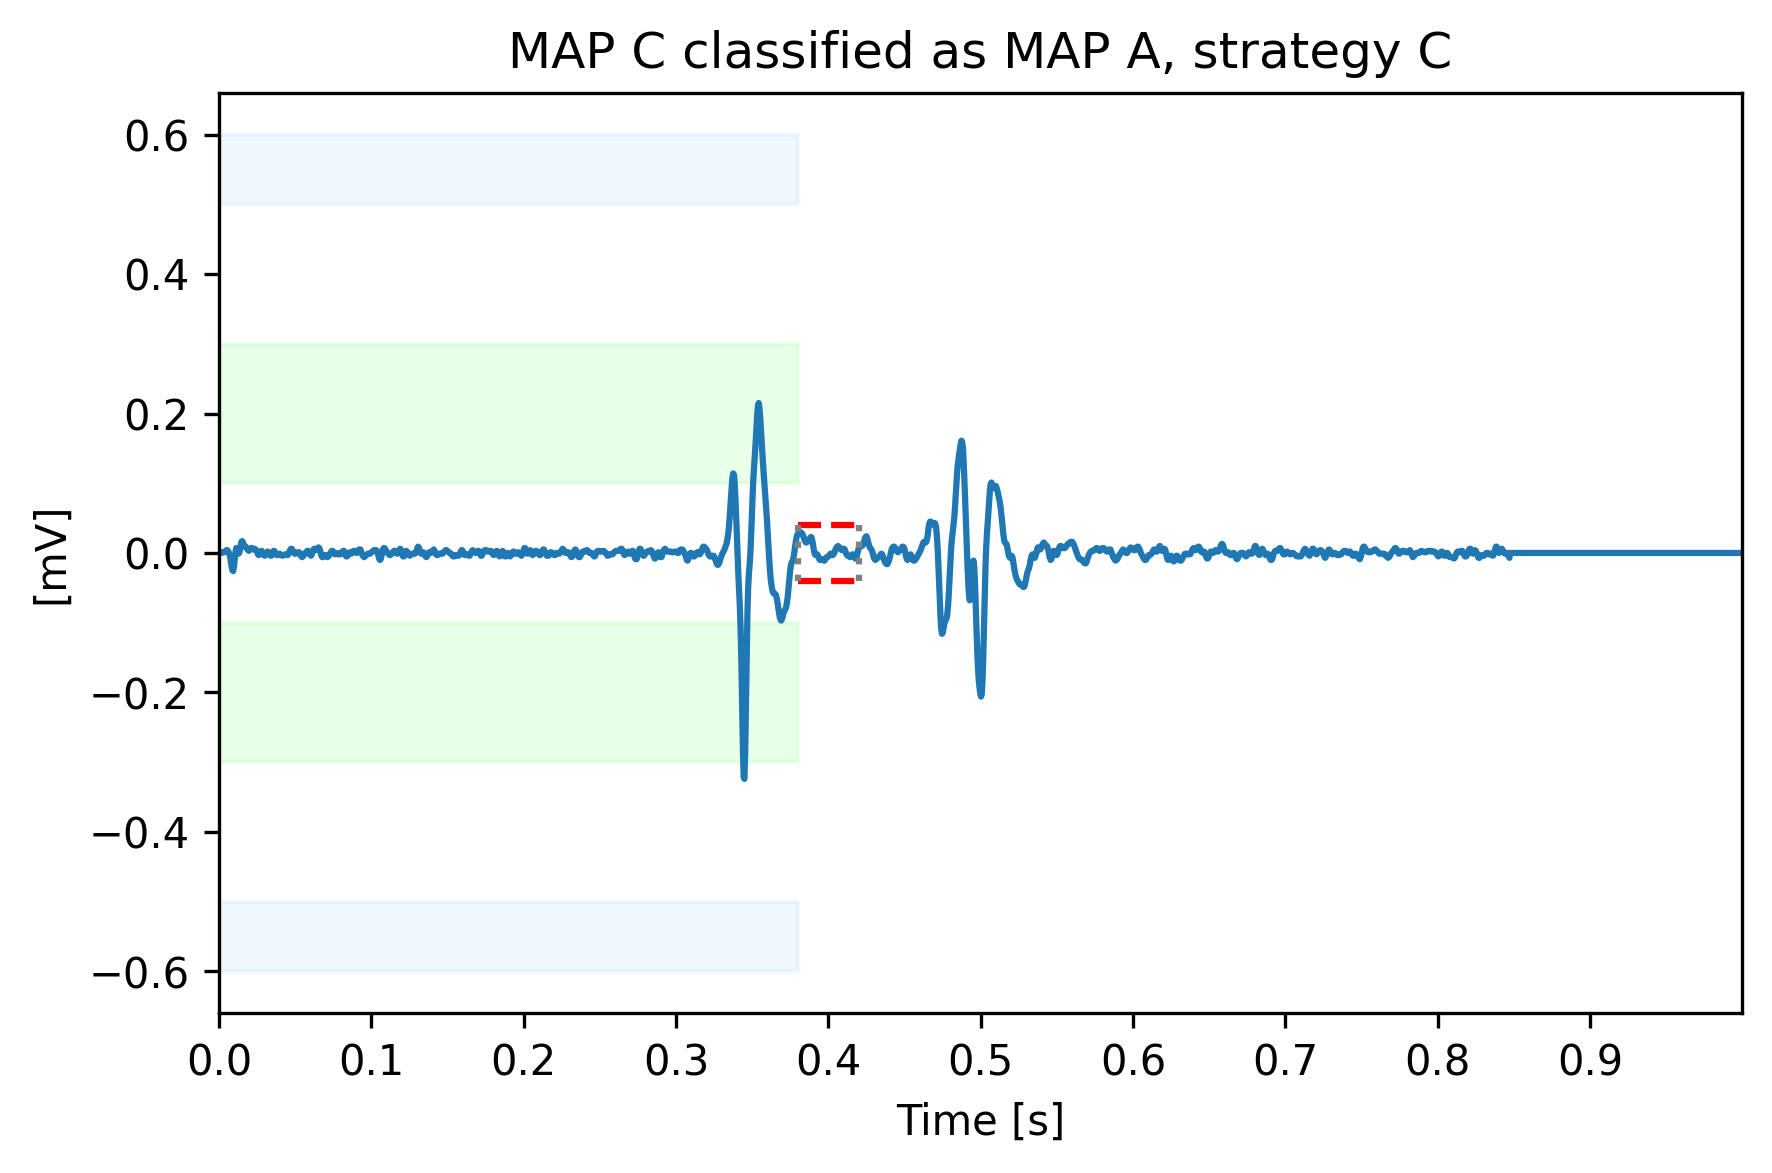
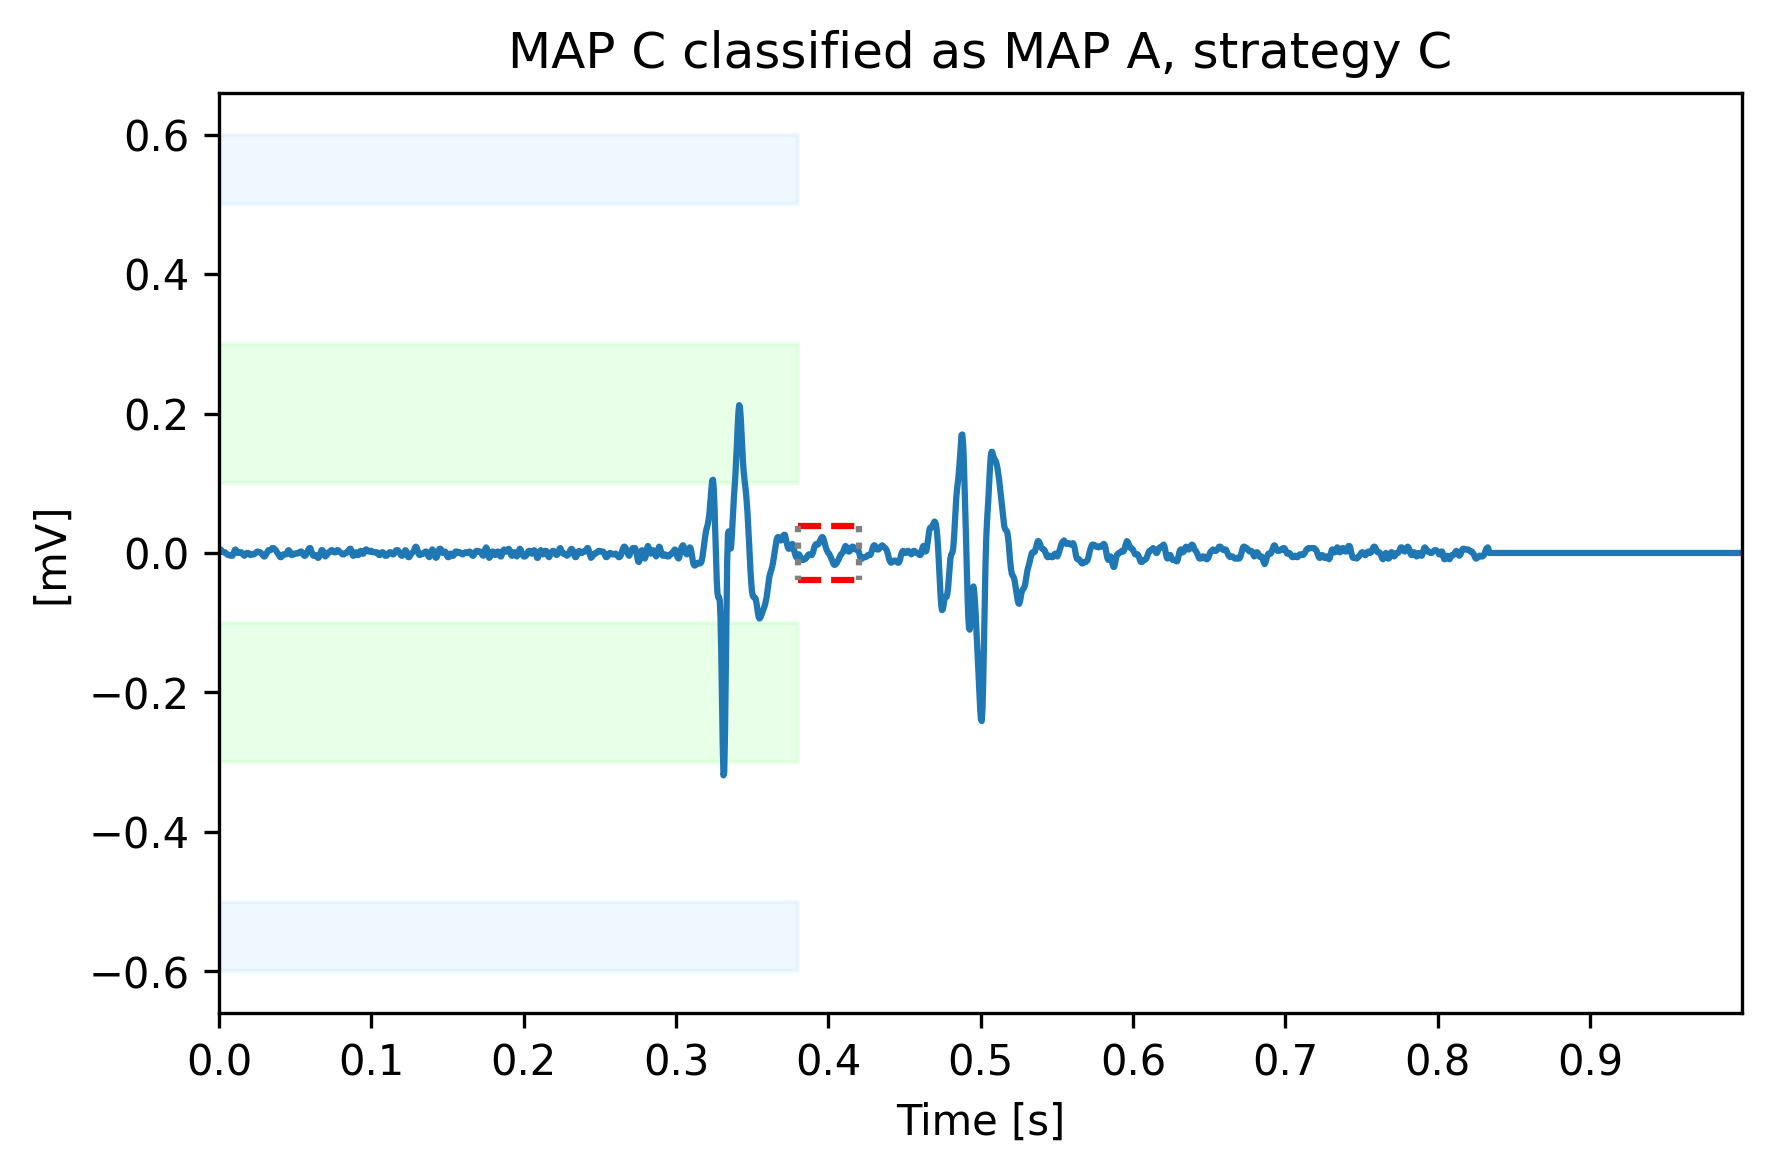
ready for complete analysis

Changed region(s): [[0.1242, 0.3376, 0.838, 0.6752], [0.5277, 0.5831, 0.5587, 0.6138]]

diff --git a/main_classification.py b/main_classification.py
@@ -33,7 +33,7 @@ figure_path="D:/Desktop/ANDREA/Universita/Magistrale/Anno Accademico 2023-2024/T
 
 #%% Loading data
 dataset_path = "D:/Desktop/ANDREA/Universita/Magistrale/Anno Accademico 2023-2024/TESI/Tesi_magistrale/Data/Processed/data_aligned" 
-db_number=3
+db_number=2
 dataset_name = "dataset_"+str(db_number)  # E.g., dataset_1, 2, 3
 whole_dataset,signals,y_true,labels_unique,Fs,plot_last_name,fig_final_folder,subtitle_plots = load_dataset(dataset_path, dataset_name)
 
@@ -187,30 +187,39 @@ if dataset_name!="dataset_3":
     # misclassified per class
     miss_class_summary= misclassification_summary(whole_dataset,y_pred_LOPOCV, labels_unique)
     plot_dataframe_as_plain_image(miss_class_summary, figsize=(8,5),scale=(1.7,1.7),title_plot=cm_title,path=other_fig_path,saving_name="Misclass_LOPOCV_C")
-    
-    # #%% Showing correct results
-    show_single_example(signals, Fs,19, 'MAP A correctly classified as MAP A, LOPOCV C',use_iloc=False) 
-    draw_his_boundaries(0.38,0.42,signal_peaks_and_class_train_LOPOCV[19][6],disp_atr_vent_boxes=True)
+    #%%
+    LOPOCV_examples=pd.DataFrame({
+        "db 1 c" : [56,227,293],
+        "db 1 m": [2,296,297],
+        "db 2 c" : [56,193,228],
+        "db 2 m": [2,881,444]
+        })
+    #%% Showing correct results
+    col=f"db {db_number} c"
+    show_single_example(signals, Fs,LOPOCV_examples[col][0], 'MAP A correctly classified as MAP A, LOPOCV C',use_iloc=False) 
+    draw_his_boundaries(0.38,0.42,signal_peaks_and_class_train_LOPOCV[LOPOCV_examples[col][0]][6],disp_atr_vent_boxes=True)
     save_plot(plt.gcf(),other_fig_path,"ex_LOPOCV_correct_class_1_C")
     
-    show_single_example(signals, Fs,809, 'MAP B correctly classified as MAP B, LOPOCV C',use_iloc=False) 
-    draw_his_boundaries(0.38,0.42,signal_peaks_and_class_train_LOPOCV[193][6],disp_atr_vent_boxes=True)
+    show_single_example(signals, Fs,LOPOCV_examples[col][1], 'MAP B correctly classified as MAP B, LOPOCV C',use_iloc=False) 
+    draw_his_boundaries(0.38,0.42,signal_peaks_and_class_train_LOPOCV[LOPOCV_examples[col][1]][6],disp_atr_vent_boxes=True)
     save_plot(plt.gcf(),other_fig_path,"ex_LOPOCV_correct_class_2_C")
     
-    show_single_example(signals, Fs, 313, 'MAP C correctly classified as MAP C, LOPOCV C',use_iloc=False) 
-    draw_his_boundaries(0.38,0.42,signal_peaks_and_class_train_LOPOCV[936][6],disp_atr_vent_boxes=True)
+    show_single_example(signals, Fs, LOPOCV_examples[col][2], 'MAP C correctly classified as MAP C, LOPOCV C',use_iloc=False) 
+    draw_his_boundaries(0.38,0.42,signal_peaks_and_class_train_LOPOCV[LOPOCV_examples[col][2]][6],disp_atr_vent_boxes=True)
     save_plot(plt.gcf(),other_fig_path,"ex_LOPOCV_correct_class_3_C")
     
     # %% Showing some unclear results
-    show_single_example(signals, Fs,107, 'MAP A classified as MAP B, LOPOCV C',use_iloc=False) 
-    draw_his_boundaries(0.38,0.42,signal_peaks_and_class_train_LOPOCV[123][6],disp_atr_vent_boxes=True)
+    col=f"db {db_number} m"
+    show_single_example(signals, Fs,LOPOCV_examples[col][0], 'MAP A classified as MAP B, LOPOCV C',use_iloc=False) 
+    draw_his_boundaries(0.38,0.42,signal_peaks_and_class_train_LOPOCV[LOPOCV_examples[col][0]][6],disp_atr_vent_boxes=True)
     save_plot(plt.gcf(),other_fig_path,"ex_LOPOCV_misclass_1_C")
     
-    show_single_example(signals, Fs,937, 'MAP C classified as MAP B, LOPOCV C',use_iloc=False) 
-    draw_his_boundaries(0.38,0.42,signal_peaks_and_class_train_LOPOCV[314][6],disp_atr_vent_boxes=True)
+    show_single_example(signals, Fs,LOPOCV_examples[col][1], 'MAP C classified as MAP B, LOPOCV C',use_iloc=False) 
+    draw_his_boundaries(0.38,0.42,signal_peaks_and_class_train_LOPOCV[LOPOCV_examples[col][1]][6],disp_atr_vent_boxes=True)
     save_plot(plt.gcf(),other_fig_path,"ex_LOPOCV_misclass_2_C")
     
-    show_single_example(signals, Fs, 928, 'MAP C classified as MAP A, LOPOCV C',use_iloc=False) 
-    draw_his_boundaries(0.38,0.42,signal_peaks_and_class_train_LOPOCV[305][6],disp_atr_vent_boxes=True)
+    show_single_example(signals, Fs, LOPOCV_examples[col][2], 'MAP C classified as MAP A, LOPOCV C',use_iloc=False) 
+    draw_his_boundaries(0.38,0.42,signal_peaks_and_class_train_LOPOCV[LOPOCV_examples[col][2]][6],disp_atr_vent_boxes=True)
     save_plot(plt.gcf(),other_fig_path,"ex_LOPOCV_misclass_3_C")
+    #%%
 else:print("Unable to perform LOPOCV")
